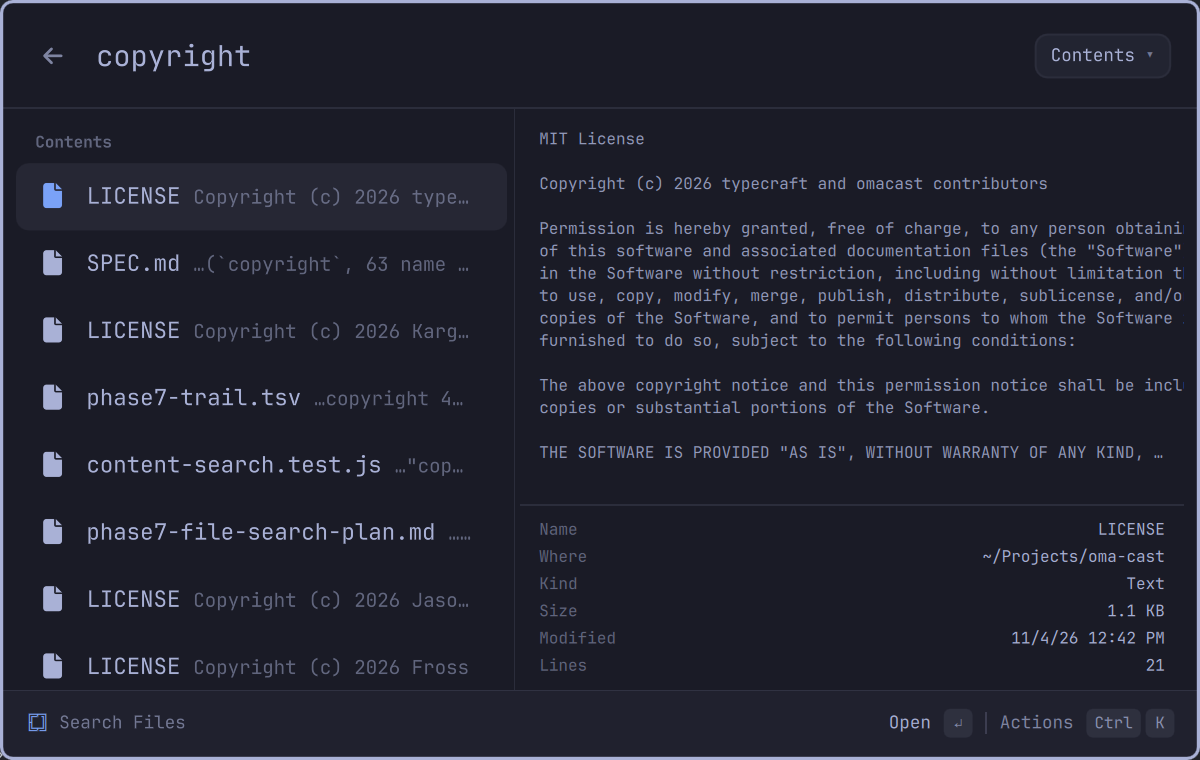
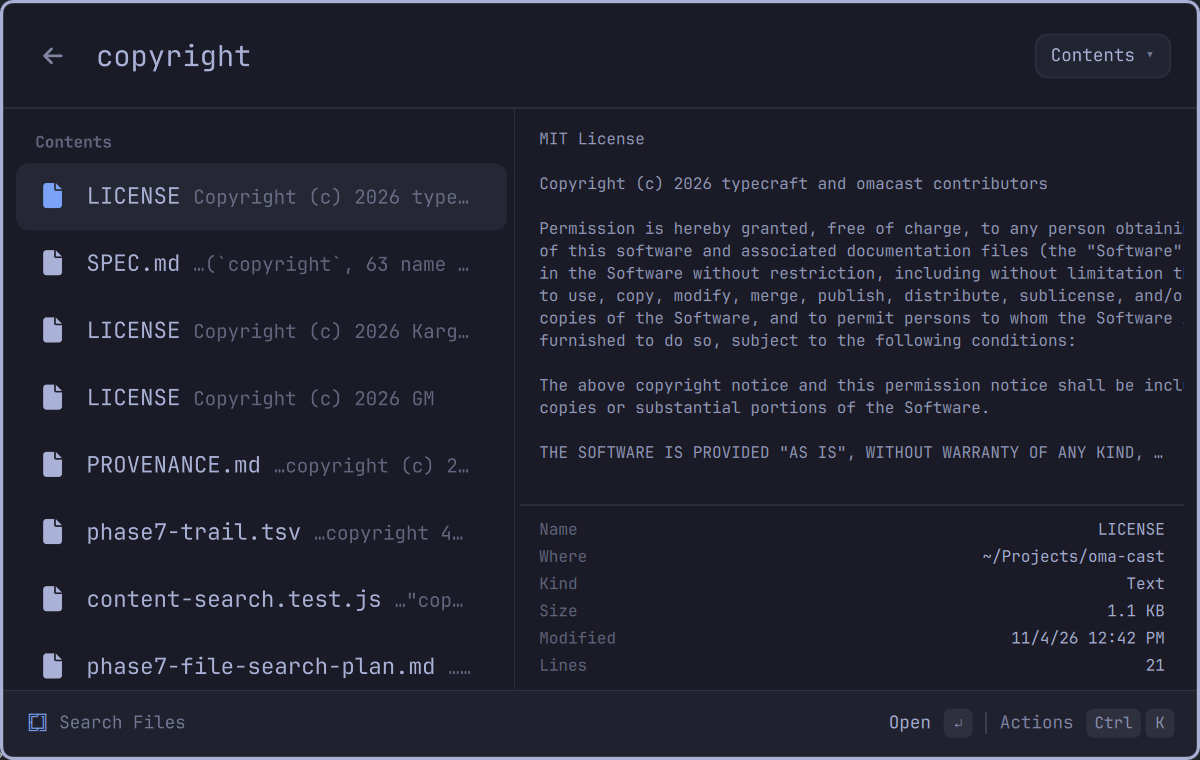
docs(files): refresh the forced Contents screenshot and record the model run
Under the 300-file cap a forced "copyright" search sorts a different set,
and two of its visible rows changed. The script's comment drops a colon.

diff --git a/services/ContentSearch.qml b/services/ContentSearch.qml
@@ -27,8 +27,8 @@ Item {
   // awk flushes every line it passes, so a kill keeps the lines printed
   // before it. rg ignores --max-columns under --json and one common word
   // printed 16 MB in 38 ms, so only match lines of at most 4,096 characters
-  // reach the shell, for at most 300 files: 1,000 such lines held the GUI
-  // thread for up to 138 ms in the parse.
+  // reach the shell, for at most 300 files, because 1,000 such lines held
+  // the GUI thread for up to 138 ms in the parse.
   readonly property string searchScript: '[[ -f $3 && -r $3 && -f $4 && -r $4 ]] || exit 3; IFS= read -r q && [[ $q ]] || exit 2; { printf "%s\\n" "$q" | rg --json --line-buffered -F -i -f - --max-count 1 --max-filesize 1M -j 32 --ignore-file "$3" --ignore-file "$4" "$1" & printf "%s\\n" "$q" | rg --json --line-buffered -F -i -f - --max-count 1 --max-filesize 1M -j 32 --hidden --ignore-file "$3" --ignore-file "$4" "$2" & wait; } | awk \'length($0) <= 4096 && /^\\{"type":"match"/ { print; fflush(); if (++n == 300) exit }\''
 
   function search(request, callback) {
